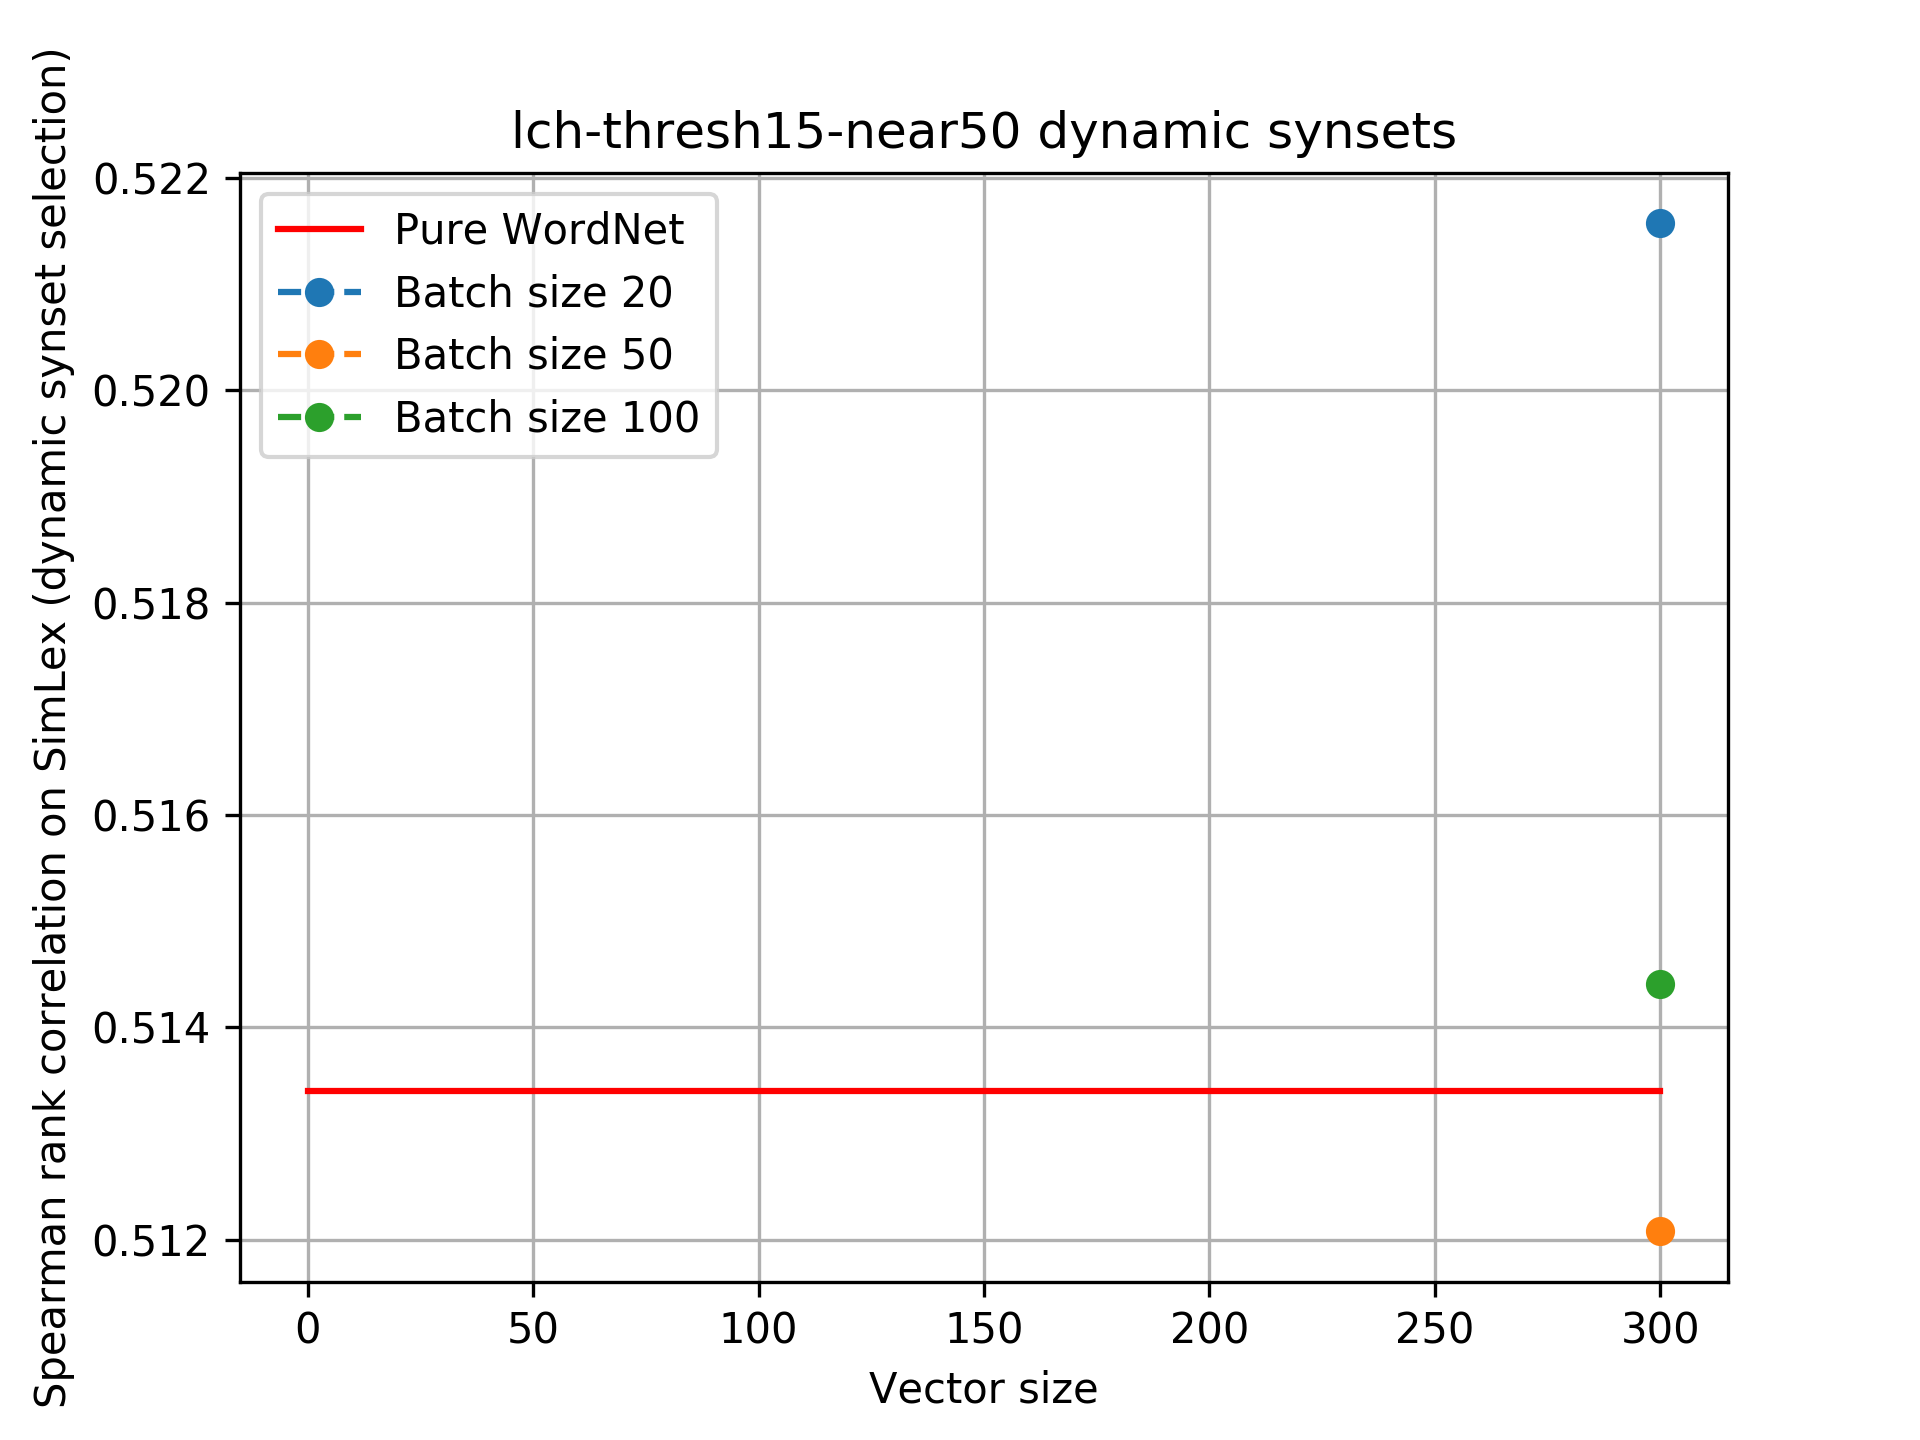
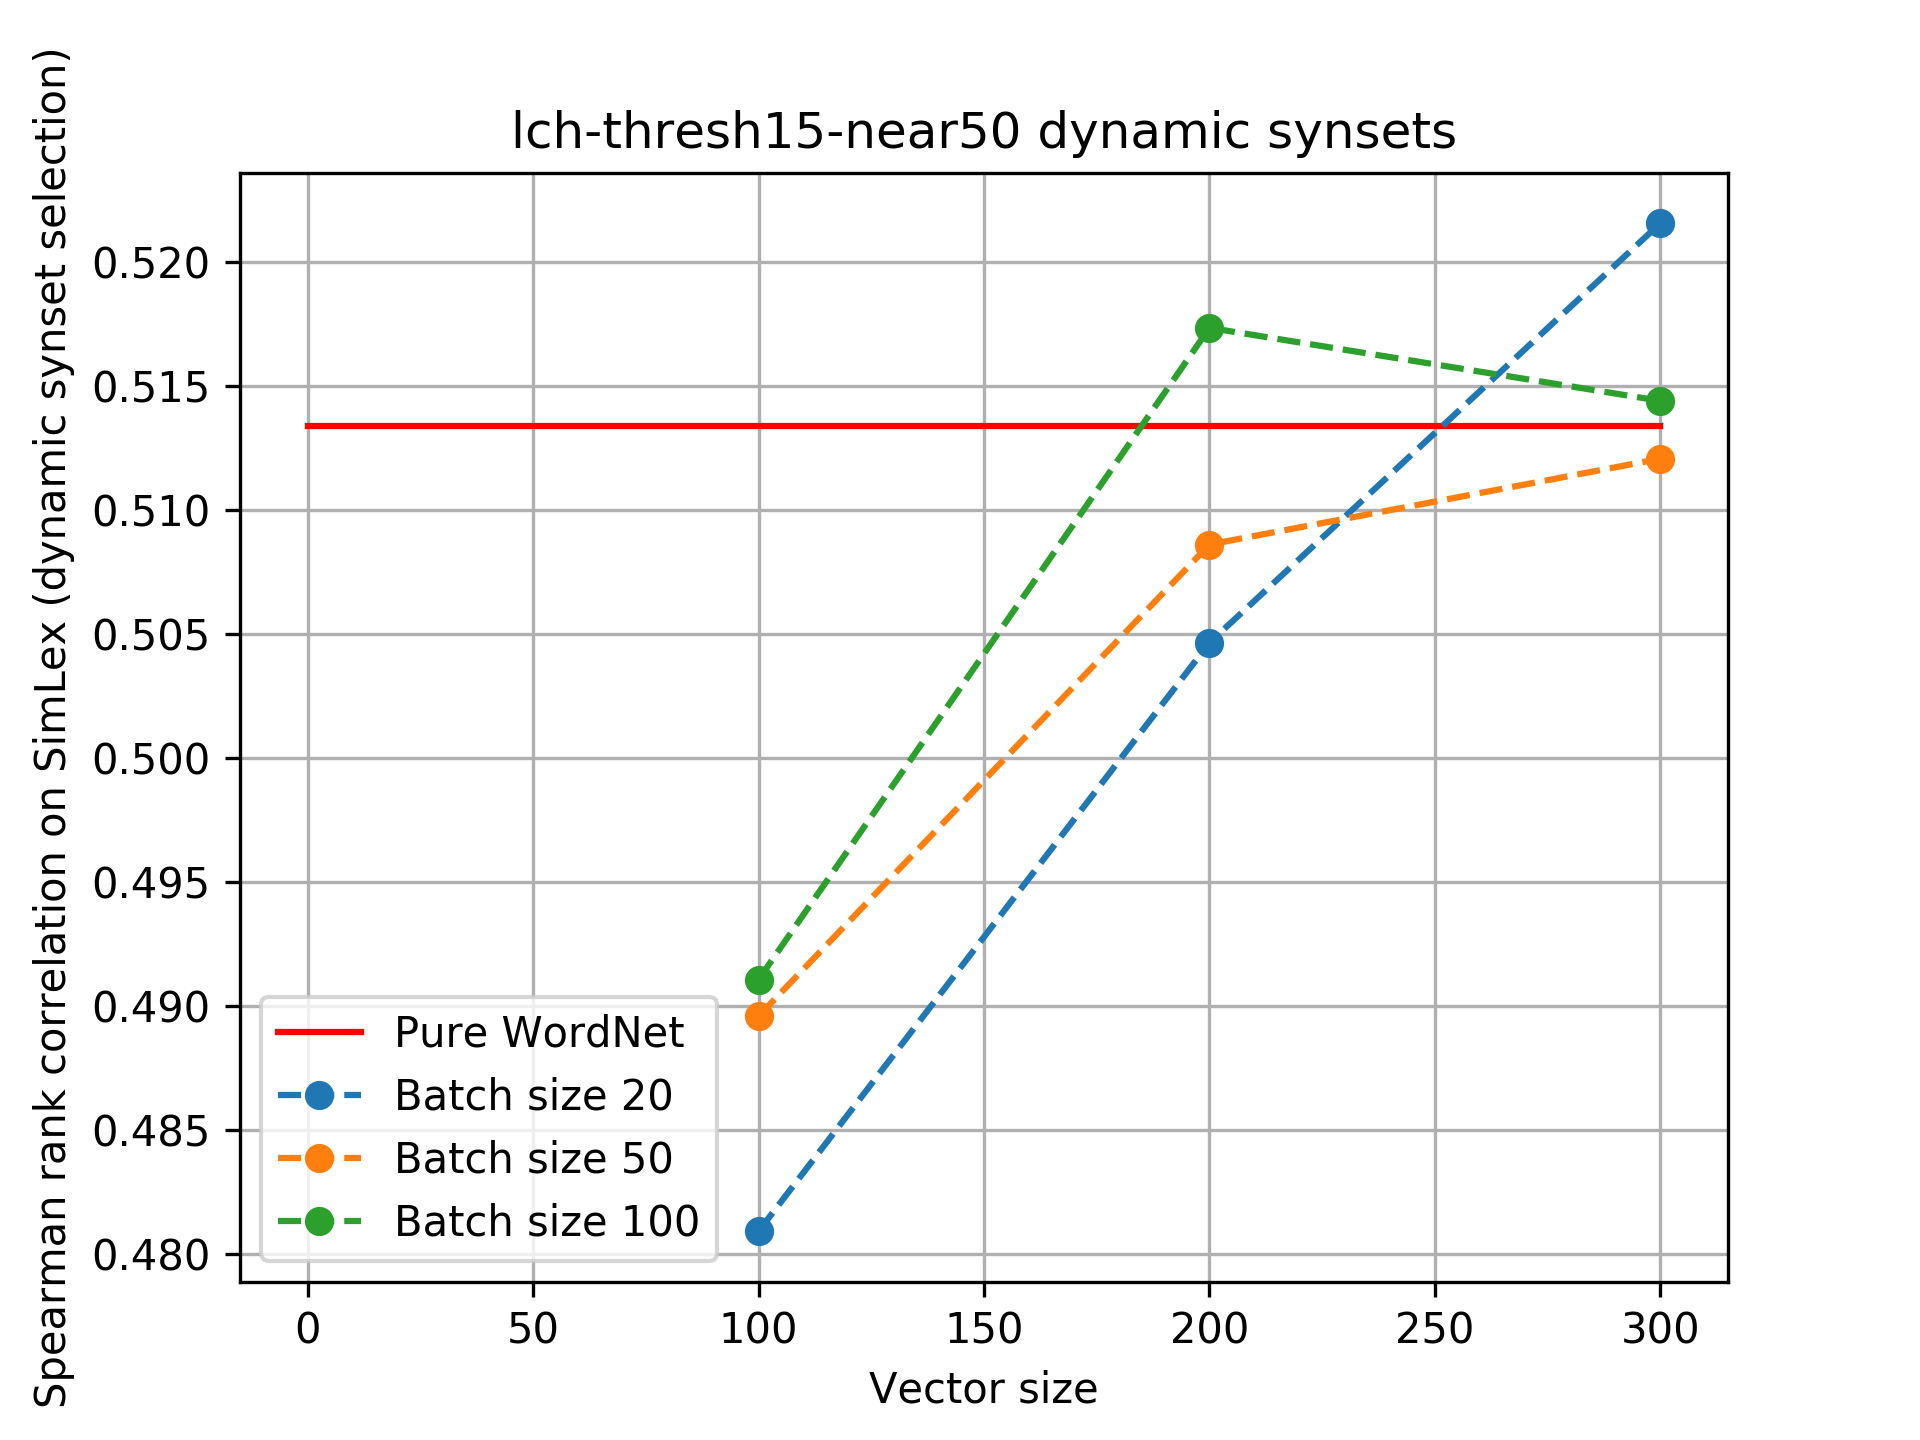
New plots

diff --git a/results/draw.py b/results/draw.py
@@ -20,6 +20,8 @@ for line in sys.stdin:
     (corpus, vsize, bsize, lrate, wordnet, human, dynamic_human) = res
     if lrate != '0.005':
         continue
+    if float(bsize) < 10 or float(bsize) > 400:
+        continue
     lrates.append(lrate)
     vsize = float(vsize)
     vectorsizes.append(vsize)
